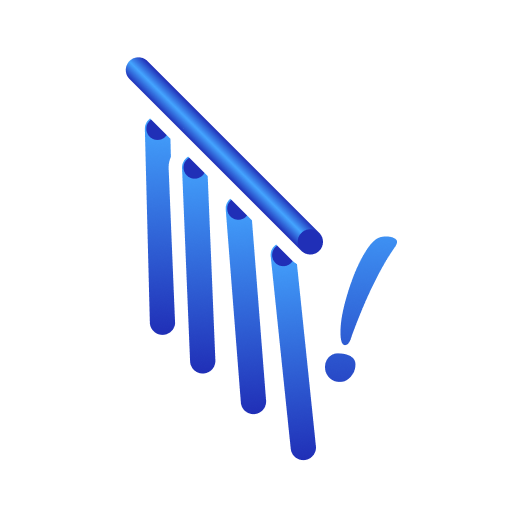
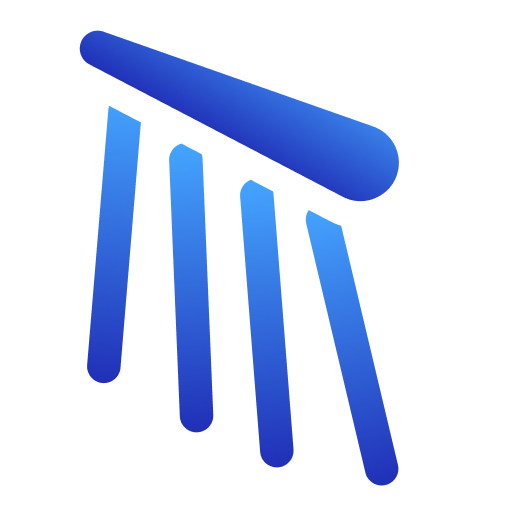
Change branding

Changed region(s): [[0.1562, 0.0625, 0.7812, 0.9688]]

diff --git a/client/src/styles/App.css b/client/src/styles/App.css
@@ -4,7 +4,7 @@
   src: url('./src/assets/Inter-VariableFont_slnt\,wght.ttf');
 }
 
-html{
+html {
   font-family: 'Inter';
   font-size: 16px;
   -webkit-font-smoothing: antialiased;
@@ -12,68 +12,74 @@ html{
   text-rendering: optimizeLegibility;
 }
 
-.Start{
+.Start {
   background: url("../assets/sky.jpg");
   background-repeat: no-repeat;
   background-position: center;
-  background-size: cover; 
+  background-size: cover;
 }
 
-.Start > main > .card input[type=text]{
+.Start>main>.card input[type=text] {
   padding: 10px;
   border-radius: 1vmin;
   border: 1px solid gray
 }
 
-.Start > main > .homepage-card{
+.Start>main>.homepage-card {
   border-radius: 2vmin;
   min-width: 800px;
 }
 
-h1.card-title{
+h1.card-title {
   font-size: xx-large;
   font-weight: bold;
 }
 
-nav{
+nav {
   padding: 15px;
   background-color: rgba(0, 3, 10, 0.172);
 }
-nav>ul{
+
+nav>ul {
   margin: 0;
   width: 50%;
 }
-nav>ul>li{
+
+nav>ul>li {
   list-style: none;
 }
-nav>ul>li>a{
+
+nav>ul>li>a {
   color: white;
   text-decoration: none;
 }
 
-.pfp{
+.pfp {
   height: 2.5em;
   border-radius: 50%;
 }
 
-.BorderedContainer{
+.BorderedContainer {
   border: 1px solid rgba(0, 0, 0, 0.4);
   border-radius: 2vmin;
 }
 
-.PostContainer{
+.PostContainer {
   padding: 1rem;
   margin-bottom: 1rem;
   min-width: 100%;
 }
-.PostData img, strong {
+
+.PostData img,
+strong {
   margin-right: 0.5rem;
 }
-.PostData span{
+
+.PostData span {
   opacity: 40%;
 }
 
-.subtitle{
+.subtitle {
   margin-top: 10vh;
   opacity: 40%;
 }
@@ -81,7 +87,8 @@ nav>ul>li>a{
 
 /* Like, reply, repost, send post */
 
-.reaction-button, .SendButton{
+.reaction-button,
+.SendButton {
   display: inline-flex;
   width: 2rem;
   height: 2rem;
@@ -90,28 +97,47 @@ nav>ul>li>a{
   justify-content: center;
 }
 
-.reaction-button{
+.reaction-button {
   background-color: #00000000;
   border-radius: 50%;
 
 }
-.reaction-button span{
+
+.SidebarButton span.icon{
+  font-variation-settings:
+  'FILL' 1,
+  'wght' 400,
+  'GRAD' 0,
+  'opsz' 24
+}
+
+.reaction-button span {
   width: 24px;
   height: 24px;
 }
 
-.SendButton{
-  position: relative;
+.SendButton {
+  position: absolute;
   align-self: flex-end;
   justify-self: flex-end;
-  transform: translate(-5px, -53px);
-  background-color: rgb(0, 110, 255);
+  transform: translate(-5px, 99px);
+  /* background-color: rgb(0, 110, 255); */
+  background: rgb(0, 157, 232);
+  background: linear-gradient(360deg, rgb(0, 255, 234) 0%, rgb(0, 162, 255) 10%, rgb(0, 89, 172) 40%, rgba(0, 56, 108, 1) 70%, rgba(213, 248, 255, 1) 100%);
+  border: 1px solid rgba(0, 1, 43, 0.719);
+  box-shadow: 0px 0px 10px 1px rgb(0, 89, 172);
   padding: 1.5rem;
   border-radius: 50% 15% 25% 15%;
-  
+
 }
 
+.SendButton:active {
+  background: rgb(0, 157, 232);
+  background: linear-gradient(360deg, rgb(28, 117, 158) 0%, rgb(20, 72, 121) 30%, rgb(7, 31, 54) 100%);
+  border: 1px solid rgba(0, 1, 43, 0.719);
+  box-shadow: 0px 0px 5px 0px rgb(0, 55, 107);
+}
 
-.reaction-button:hover{ 
+.reaction-button:hover {
   background-color: rgba(0, 110, 255, 0.3);
 }

diff --git a/client/src/pages/Start.jsx b/client/src/pages/Start.jsx
@@ -11,7 +11,7 @@ function Start() {
 			</nav>
 			<main className="d-flex flex-row justify-content-evenly align-items-center vh-100">
 				<div className="d-flex flex-column website-logo">
-					<img src="../src/assets/ChimelineSlogan.png" height="164px"></img>
+					<img src="../src/assets/Chimeline.png" height="164px"></img>
 				</div>
 				<div className="card homepage-card p-5">
 					<div className="d-flex flex-column card-body">

diff --git a/client/src/components/Sidebar.jsx b/client/src/components/Sidebar.jsx
@@ -4,7 +4,8 @@ function Sidebar(type) {
 
     const leftSidebar = (
         <>
-            <h2>Home</h2>
+            <img src='../../src/assets/Chimeline.png' style={{width: '10rem'}}/>
+            <hr/>
             <SidebarButton icon='home' text='Home' path='/Home' />
             <SidebarButton icon='labs' text='Test Page' path='/TestPage' />
             <SidebarButton icon='tooltip' text='Landing Page' path='/' />

diff --git a/client/index.html b/client/index.html
@@ -3,7 +3,7 @@
 
 <head>
   <meta charset="UTF-8" />
-  <link rel="icon" type="image/png" href="/src/assets/Icon_.png" />
+  <link rel="icon" type="image/png" href="/src/assets/Icon.png" />
   <link rel="stylesheet" href="https://fonts.googleapis.com/css2?family=Material+Symbols+Outlined:opsz,wght,FILL,GRAD@24,400,0,0" />
   <meta name="viewport" content="width=device-width, initial-scale=1.0" />
   <title>Chimeline</title>

diff --git a/client/src/components/SidebarButton.jsx b/client/src/components/SidebarButton.jsx
@@ -3,7 +3,7 @@ function SidebarButton({ icon, text, path }) {
 
 	return <>
 		<button onClick={redirectFunction} className='SidebarButton d-flex align-items-center mb-2 p-2 justify-items-center'>
-			<span className="icon material-symbols-outlined" style={{fontSize: '1rem', fontWeight: 100}}>
+			<span className="icon material-symbols-outlined">
 				{icon}
 			</span>
 			<span className="text-label">{text}</span>

diff --git a/client/src/components/SendButton.jsx b/client/src/components/SendButton.jsx
@@ -1,7 +1,7 @@
 function SendButton() {
 
     return <button className='SendButton'>
-        <span className="material-symbols-outlined" style={{color: "white", fontVariationSettings: "'FILL' 1"}}>
+        <span className="material-symbols-outlined" style={{color: "white", fontVariationSettings: "'FILL'1"}}>
             send
         </span>
     </button>
